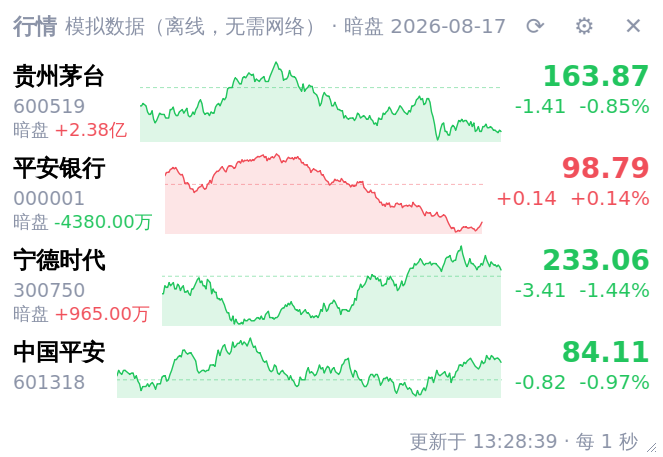
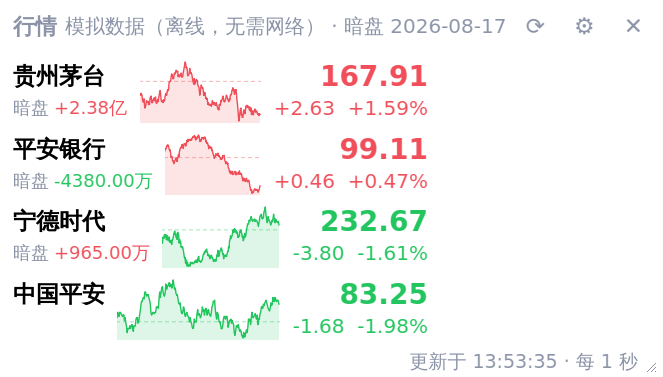
feat: 左侧去掉股票代码，行数改为按行平铺的网格
1. 每格左侧只留名称和暗盘资金，不再显示股票代码。

2. 自选不再是纵向列表 + 滚动，而是按设置里的行数铺成网格：
   填 1 就全部横向排开成一条行情带，填 2 就铺两行，列数由自选数量摊出来，
   窗口宽高随之自适应。列多到超出屏幕时才横向滚动。
   「显示行数」相应改名为「网格行数」。

   窗口宽度直接问网格布局要首选宽度，而不是自己按 sizeHint×列数 估算——
   估算会漏掉滚动区边距和滚动条，实测差 29px，最右一列的价格会被裁掉
   （97.62 显示成 97）。

测试：冒烟检查 21 → 28 项，新增左侧无代码、1 行铺成 1×4 且窗口宽大于高、
所有格子都在第 0 行、2 行铺成 2×2 且占用两行等。

Claude-Session: https://claude.ai/code/session_014eQrWQ9Jg9Ssha8qLHBCZ5

diff --git a/stockwidget/webui/static/settings.js b/stockwidget/webui/static/settings.js
@@ -184,7 +184,7 @@ function refreshHints() {
   el('visible_rows').disabled = single;
   el('layout-hint').textContent = single
     ? '单行滚动：所有股票在一行里横向滚动，鼠标悬停暂停；此模式下行数设置不生效。'
-    : '多行列表：窗口高度按行数自适应，自选超过行数时列表内可滚动。';
+    : '多行列表：自选按这个行数铺成网格——填 1 就全部横向排开，填 2 就铺两行，窗口宽度随之变宽。';
 }
 
 function note(text) {

diff --git a/stockwidget/webui/templates/settings.html b/stockwidget/webui/templates/settings.html
@@ -49,7 +49,7 @@
             </select>
           </div>
           <div class="field">
-            <label for="visible_rows">显示行数</label>
+            <label for="visible_rows">网格行数</label>
             <input id="visible_rows" name="visible_rows" type="number" min="1" max="30" step="1"
                    value="{{ config.visible_rows }}" />
           </div>

diff --git a/stockwidget/ui/window.py b/stockwidget/ui/window.py
@@ -11,6 +11,7 @@ from PySide6.QtWidgets import (
     QHBoxLayout,
     QLabel,
     QPushButton,
+    QGridLayout,
     QScrollArea,
     QVBoxLayout,
     QWidget,
@@ -219,22 +220,23 @@ class TickerWindow(QWidget):
         self.title_bar.settings_requested.connect(self.settings_requested.emit)
         self.title_bar.quit_requested.connect(self.quit_requested.emit)
 
+        # 自选按「设置里的行数」铺成网格：1 行就全部横向排开，2 行就铺两行。
         self.rows_host = QWidget()
-        self.rows_layout = QVBoxLayout(self.rows_host)
+        self.rows_layout = QGridLayout(self.rows_host)
         self.rows_layout.setContentsMargins(0, 3, 0, 3)
         self.rows_layout.setSpacing(0)
-        self.rows_layout.addStretch(1)
+        self._grid_shape: tuple[int, int] = (0, 0)
 
         self.scroll = QScrollArea()
         self.scroll.setWidget(self.rows_host)
         self.scroll.setWidgetResizable(True)
         self.scroll.setFrameShape(QScrollArea.NoFrame)
-        self.scroll.setHorizontalScrollBarPolicy(Qt.ScrollBarAlwaysOff)
         self.scroll.setStyleSheet(
             "QScrollArea, QWidget { background: transparent; }"
             "QScrollBar:vertical { width: 6px; background: transparent; }"
-            "QScrollBar::handle:vertical { background: rgba(255,255,255,0.14); border-radius: 3px; }"
-            "QScrollBar::add-line, QScrollBar::sub-line { height: 0; }"
+            "QScrollBar:horizontal { height: 6px; background: transparent; }"
+            "QScrollBar::handle { background: rgba(255,255,255,0.14); border-radius: 3px; }"
+            "QScrollBar::add-line, QScrollBar::sub-line { height: 0; width: 0; }"
         )
 
         self.marquee = Marquee()
@@ -326,7 +328,7 @@ class TickerWindow(QWidget):
             config.background_alpha,
         ):
             self.update()
-        self._resize_to_rows()
+        self._resize_to_grid()
 
     def paintEvent(self, event) -> None:  # noqa: N802 - Qt 命名
         painter = QPainter(self)
@@ -374,8 +376,6 @@ class TickerWindow(QWidget):
                 row = QuoteRow(quote.symbol)
                 row.apply_config(scaled)
                 self._rows[quote.symbol] = row
-            # 保持与配置一致的顺序
-            self.rows_layout.insertWidget(index, row)
             row.update_quote(quote, scaled, trends.get(quote.symbol))
 
         wanted = {q.symbol for q in quotes}
@@ -385,15 +385,43 @@ class TickerWindow(QWidget):
                 self.rows_layout.removeWidget(row)
                 row.deleteLater()
 
+        self._lay_out_grid([q.symbol for q in quotes])
+
         single = self._config.layout == "single"
         self.scroll.setVisible(not single and bool(self._rows))
         self.empty_label.setVisible(not single and not self._rows)
-        self._resize_to_rows()
+        self._resize_to_grid()
+
+    def _grid_size(self, count: int) -> tuple[int, int]:
+        """设置里的行数决定网格有几行，列数由自选数量摊出来。"""
+        rows = max(1, min(self._config.visible_rows, max(count, 1)))
+        columns = max(1, -(-count // rows))  # 向上取整
+        return rows, columns
+
+    def _lay_out_grid(self, order: list[str]) -> None:
+        """按自选顺序从左到右填，填满一行再换下一行。"""
+        rows, columns = self._grid_size(len(order))
+        if (rows, columns) == self._grid_shape and all(
+            self.rows_layout.indexOf(self._rows[s]) >= 0 for s in order if s in self._rows
+        ):
+            return  # 形状没变，位置也都在，不必重排
+
+        for symbol in order:
+            row = self._rows.get(symbol)
+            if row is not None:
+                self.rows_layout.removeWidget(row)
+        for index, symbol in enumerate(order):
+            row = self._rows.get(symbol)
+            if row is not None:
+                self.rows_layout.addWidget(row, index // columns, index % columns)
+        for column in range(columns):
+            self.rows_layout.setColumnStretch(column, 1)
+        self._grid_shape = (rows, columns)
 
     # ------------------------------------------------------------ 尺寸
 
-    def _resize_to_rows(self) -> None:
-        """窗口高度跟着「行数 × 当前字号下的实际行高」走。"""
+    def _resize_to_grid(self) -> None:
+        """高度按网格行数算，宽度按列数摊开——1 行就是全部横向铺满。"""
         chrome = self.title_bar.sizeHint().height() + 2
         if self._config.layout == "single":
             self.setFixedHeight(chrome + self.marquee.height() + 4)
@@ -406,10 +434,23 @@ class TickerWindow(QWidget):
         if not self._rows:
             self.resize(self.width(), chrome + 90)
             return
-        row_height = next(iter(self._rows.values())).sizeHint().height()
-        count = max(1, min(self._config.visible_rows, len(self._rows)))
+
+        sample = next(iter(self._rows.values()))
+        rows, columns = self._grid_size(len(self._rows))
         footer = self.footer.sizeHint().height() if self.footer.isVisible() else 0
-        self.resize(self.width(), chrome + row_height * count + footer + 8)
+        height = chrome + sample.sizeHint().height() * rows + footer + 8
+
+        # 宽度直接问网格要：自己按 sizeHint×列数 估会漏掉边距和滚动条，
+        # 差那十几像素就会把最右一列的价格裁掉。
+        self.rows_layout.activate()
+        width = max(
+            self.rows_host.sizeHint().width() + 10,
+            columns * round(self.scaled_config().font_size * 13),
+        )
+        screen = self.screen()
+        if screen is not None:  # 列太多时别撑出屏幕，剩下的交给横向滚动
+            width = min(width, screen.availableGeometry().width())
+        self.resize(width, height)
 
     def restore_bounds(self, bounds: Bounds | None, available: list) -> None:
         """恢复上次位置前先确认它仍落在某块屏幕上（外接显示器可能已拔掉）。"""

diff --git a/stockwidget/ui/quote_row.py b/stockwidget/ui/quote_row.py
@@ -1,6 +1,6 @@
-"""多行模式下的一行行情。
+"""网格里的一格行情。
 
-版式：左边名称压代码，中间当日分时图，右边现价压涨跌，暗盘资金挂在左下。
+版式：左边名称压暗盘资金，中间当日分时图，右边现价压涨跌。
 """
 
 from __future__ import annotations
@@ -25,7 +25,6 @@ class QuoteRow(QWidget):
         self.symbol = symbol
 
         self.name_label = QLabel()
-        self.code_label = QLabel()
         self.price_label = QLabel()
         self.change_label = QLabel()
         self.dark_label = QLabel("暗盘")
@@ -34,7 +33,6 @@ class QuoteRow(QWidget):
 
         self.price_label.setAlignment(Qt.AlignRight | Qt.AlignVCenter)
         self.change_label.setAlignment(Qt.AlignRight | Qt.AlignVCenter)
-        self.code_label.setStyleSheet(_color_style(MUTED))
         self.dark_label.setStyleSheet(_color_style(MUTED))
         self.sparkline.setSizePolicy(QSizePolicy.Expanding, QSizePolicy.Preferred)
 
@@ -51,9 +49,8 @@ class QuoteRow(QWidget):
         layout.setHorizontalSpacing(12)
         layout.setVerticalSpacing(1)
         layout.addWidget(self.name_label, 0, 0)
-        layout.addWidget(self.code_label, 1, 0)
-        layout.addWidget(self.dark_box, 2, 0)
-        layout.addWidget(self.sparkline, 0, 1, 3, 1)  # 走势图纵向占满整行
+        layout.addWidget(self.dark_box, 1, 0)
+        layout.addWidget(self.sparkline, 0, 1, 2, 1)  # 走势图纵向占满整格
         layout.addWidget(self.price_label, 0, 2)
         layout.addWidget(self.change_label, 1, 2)
         layout.setColumnStretch(1, 1)  # 多出来的宽度都给走势图
@@ -63,19 +60,18 @@ class QuoteRow(QWidget):
 
     def apply_config(self, config: Config) -> None:
         self.name_label.setFont(make_font(config, 0.95, bold=True))
-        self.code_label.setFont(make_font(config, 0.78))
         self.price_label.setFont(make_font(config, 1.15, bold=True))
         self.change_label.setFont(make_font(config, 0.85))
         self.dark_label.setFont(make_font(config, 0.75))
         self.dark_value.setFont(make_font(config, 0.75))
 
         compact = config.compact
-        # 紧凑模式只省掉代码、暗盘和页脚，走势图照画——只是压扁一点。
-        self.code_label.setVisible(not compact)
+        # 紧凑模式只省掉暗盘和页脚，走势图照画——只是压扁一点。
         self.sparkline.setVisible(config.show_sparkline)
         self.sparkline.setMinimumHeight(
             round(config.font_size * (1.6 if compact else 2.6)) if config.show_sparkline else 0
         )
+        self.sparkline.setMinimumWidth(round(config.font_size * 4) if config.show_sparkline else 0)
         self._layout.setContentsMargins(12, 2 if compact else 5, 12, 2 if compact else 5)
 
     # ------------------------------------------------------------ 数据
@@ -83,7 +79,6 @@ class QuoteRow(QWidget):
     def update_quote(self, quote: Quote, config: Config, trend: Trend | None = None) -> None:
         color = direction_color(config, quote.change)
         self.name_label.setText(quote.name or quote.symbol)
-        self.code_label.setText(quote.symbol if quote.name != quote.symbol else "")
 
         if quote.error:
             self.price_label.setText(quote.error)

diff --git a/scripts/smoke.py b/scripts/smoke.py
@@ -137,6 +137,15 @@ def main() -> int:
 
     steps: list = []
 
+    def _grid_rows(app) -> set:  # noqa: ANN001
+        """当前网格里所有格子占用的行号。"""
+        layout = app.window.rows_layout
+        return {
+            layout.getItemPosition(i)[0]
+            for i in range(layout.count())
+            if layout.itemAt(i).widget() is not None
+        }
+
     def shot(name: str) -> None:
         if args.shots:
             args.shots.mkdir(parents=True, exist_ok=True)
@@ -157,9 +166,34 @@ def main() -> int:
     def step_font() -> None:
         app._apply_config(store.update({"font_size": 17, "visible_rows": 2}))
         QTimer.singleShot(600, lambda: (
-            check("改字号后窗口跟着缩放", app.window.height() < 260, str(app.window.height())),
+            check("改字号后窗口跟着缩放", app.window.height() < 300, str(app.window.height())),
             shot("shot-font-rows"),
         ))
+
+    def step_tile_one_row() -> None:
+        """1 行时四只股票应该全部横向铺开，窗口变宽变矮。"""
+        app._apply_config(store.update({"font_size": 13, "visible_rows": 1}))
+        QTimer.singleShot(700, lambda: (
+            check("1 行时铺成 1×4", app.window._grid_shape == (1, 4), str(app.window._grid_shape)),
+            check("1 行时窗口宽大于高",
+                  app.window.width() > app.window.height(),
+                  f"{app.window.width()}x{app.window.height()}"),
+            check("所有股票都在第 0 行", _grid_rows(app) == {0}, str(_grid_rows(app))),
+            shot("shot-tile-1"),
+        ))
+
+    def step_tile_two_rows() -> None:
+        app._apply_config(store.update({"visible_rows": 2}))
+        QTimer.singleShot(700, lambda: (
+            check("2 行时铺成 2×2", app.window._grid_shape == (2, 2), str(app.window._grid_shape)),
+            check("2 行时占用两行", _grid_rows(app) == {0, 1}, str(_grid_rows(app))),
+            shot("shot-tile-2"),
+        ))
+
+    def step_no_code() -> None:
+        row = next(iter(app.window._rows.values()))
+        check("左侧不再显示股票代码", not hasattr(row, "code_label"))
+        check("左侧仍显示名称", bool(row.name_label.text().strip()), row.name_label.text())
 
     def step_compact() -> None:
         """紧凑模式以前会把走势图一起藏掉，这是回归点。"""
@@ -247,7 +281,10 @@ def main() -> int:
 
     steps = [
         step_multi,
+        step_no_code,
         step_font,
+        step_tile_one_row,
+        step_tile_two_rows,
         step_compact,
         step_scale,
         step_background,

diff --git a/README.md b/README.md
@@ -11,7 +11,8 @@
 - **悬浮小窗**：无边框 + 半透明圆角卡片，标题栏任意位置可拖动，右下角可拉伸宽度
 - **最前显示**：可开关，开启后始终置于所有窗口之上
 - **WebUI 设置**：所有参数在浏览器里改，改完立刻下发到桌面窗口并写入 JSON
-- **两种显示模式**：多行列表 / 单行横向滚动（鼠标悬停暂停），多行模式可设置显示行数，窗口高度自适应
+- **按行数平铺**：设几行就铺几行，股票依次向右排开——设 1 行就是一条横向行情带，窗口尺寸自适应
+- **两种显示模式**：网格平铺 / 单行横向滚动（鼠标悬停暂停）
 - **字体可改**：字体与字号都能设置，界面所有字号按基准字号等比缩放
 - **拖拽缩放**：拖右下角把手改变窗口大小，字体与走势图按比例一起放大
 - **背景可调**：背景颜色和不透明度独立于窗口透明度，可以调到完全透明只留文字
@@ -23,6 +24,10 @@
 - **涨跌配色可切**：红涨绿跌（A 股习惯）/ 绿涨红跌（欧美习惯）
 - **状态持久化**：自选、模式、行数、字体、透明度、窗口位置尺寸，重启后自动恢复
 - **逐行降级**：某只股票取不到数只在该行显示原因，不影响其他行情
+
+网格行数设为 1，所有自选横向铺成一条行情带：
+
+![一行平铺](docs/screenshot-tile-one-row.png)
 
 背景不透明度调到 0：只剩文字和曲线浮在桌面上。
 
@@ -94,8 +99,8 @@ Linux ARM64 的 glibc 2.39 门槛则退不了——上游从 6.9 到 6.11 的 aa
 | --- | --- | --- |
 | 数据源 | 自动 | 见下表 |
 | 自选股票 | `600519 000001 300750 601318` | 搜索框支持代码/名称/拼音/首字母，最多 50 只 |
-| 显示模式 | 多行列表 | 可切换为单行横向滚动 |
-| 显示行数 | 4 | 1–30 行，窗口高度随之自适应；单行模式下不生效 |
+| 显示模式 | 网格平铺 | 可切换为单行横向滚动 |
+| 网格行数 | 4 | 1–30 行；填 1 全部横向排开，填 2 铺两行，窗口宽高随之自适应；单行模式下不生效 |
 | 字体 | 跟随系统 | 填系统里已安装的字体名，如 `Microsoft YaHei` |
 | 字号 | 13px | 9–28px，界面整体等比缩放 |
 | 刷新间隔 | 5 秒 | 1–3600 秒 |
@@ -108,7 +113,7 @@ Linux ARM64 的 glibc 2.39 门槛则退不了——上游从 6.9 到 6.11 的 aa
 | 暗盘资金 | 开 | 显示东方财富当日暗盘资金 |
 | 走势图 | 开 | 紧凑模式下会压扁，但不会隐藏 |
 | 走势图用分时数据 | 开 | 关掉后不联网取分时，只画组件运行期间的采样点 |
-| 紧凑模式 | 关 | 隐藏代码、暗盘与页脚，走势图保留 |
+| 紧凑模式 | 关 | 隐藏暗盘与页脚，走势图保留 |
 
 ### 配置文件
 
@@ -203,7 +208,7 @@ stockwidget/
     mock.py          离线模拟行情
   ui/
     window.py        悬浮窗：标题栏、列表、页脚、尺寸自适应
-    quote_row.py     单行行情
+    quote_row.py     网格里的一格行情（名称/暗盘 · 分时图 · 现价/涨跌）
     marquee.py       单行滚动跑马灯
     sparkline.py     走势图（分时曲线 + 昨收基准 + 面积填充）
     tray.py, icon.py 托盘与图标（图标用 QPainter 现画）
@@ -227,7 +232,7 @@ uv run python scripts/smoke.py --shots docs/   # 顺便更新截图
 
 单元测试覆盖配置校验、代码归一化、各数据源解析与失败降级、暗盘字段映射与分页缓存、
 WebUI 的鉴权与读写。冒烟脚本会真正把 Qt 窗口和 Flask 服务跑起来，验证行情渲染、
-暗盘显示、分时曲线与基准线、紧凑模式仍保留走势图、拖拽缩放后字号等比放大、背景全透明、
+暗盘显示、分时曲线与基准线、按行数平铺成网格、紧凑模式仍保留走势图、拖拽缩放后字号等比放大、背景全透明、
 鼠标穿透与左上角把手、单行模式，以及**从 WebUI 改配置后桌面窗口是否跟着变**。
 没有图形环境时会自动套 `xvfb-run`。
 
